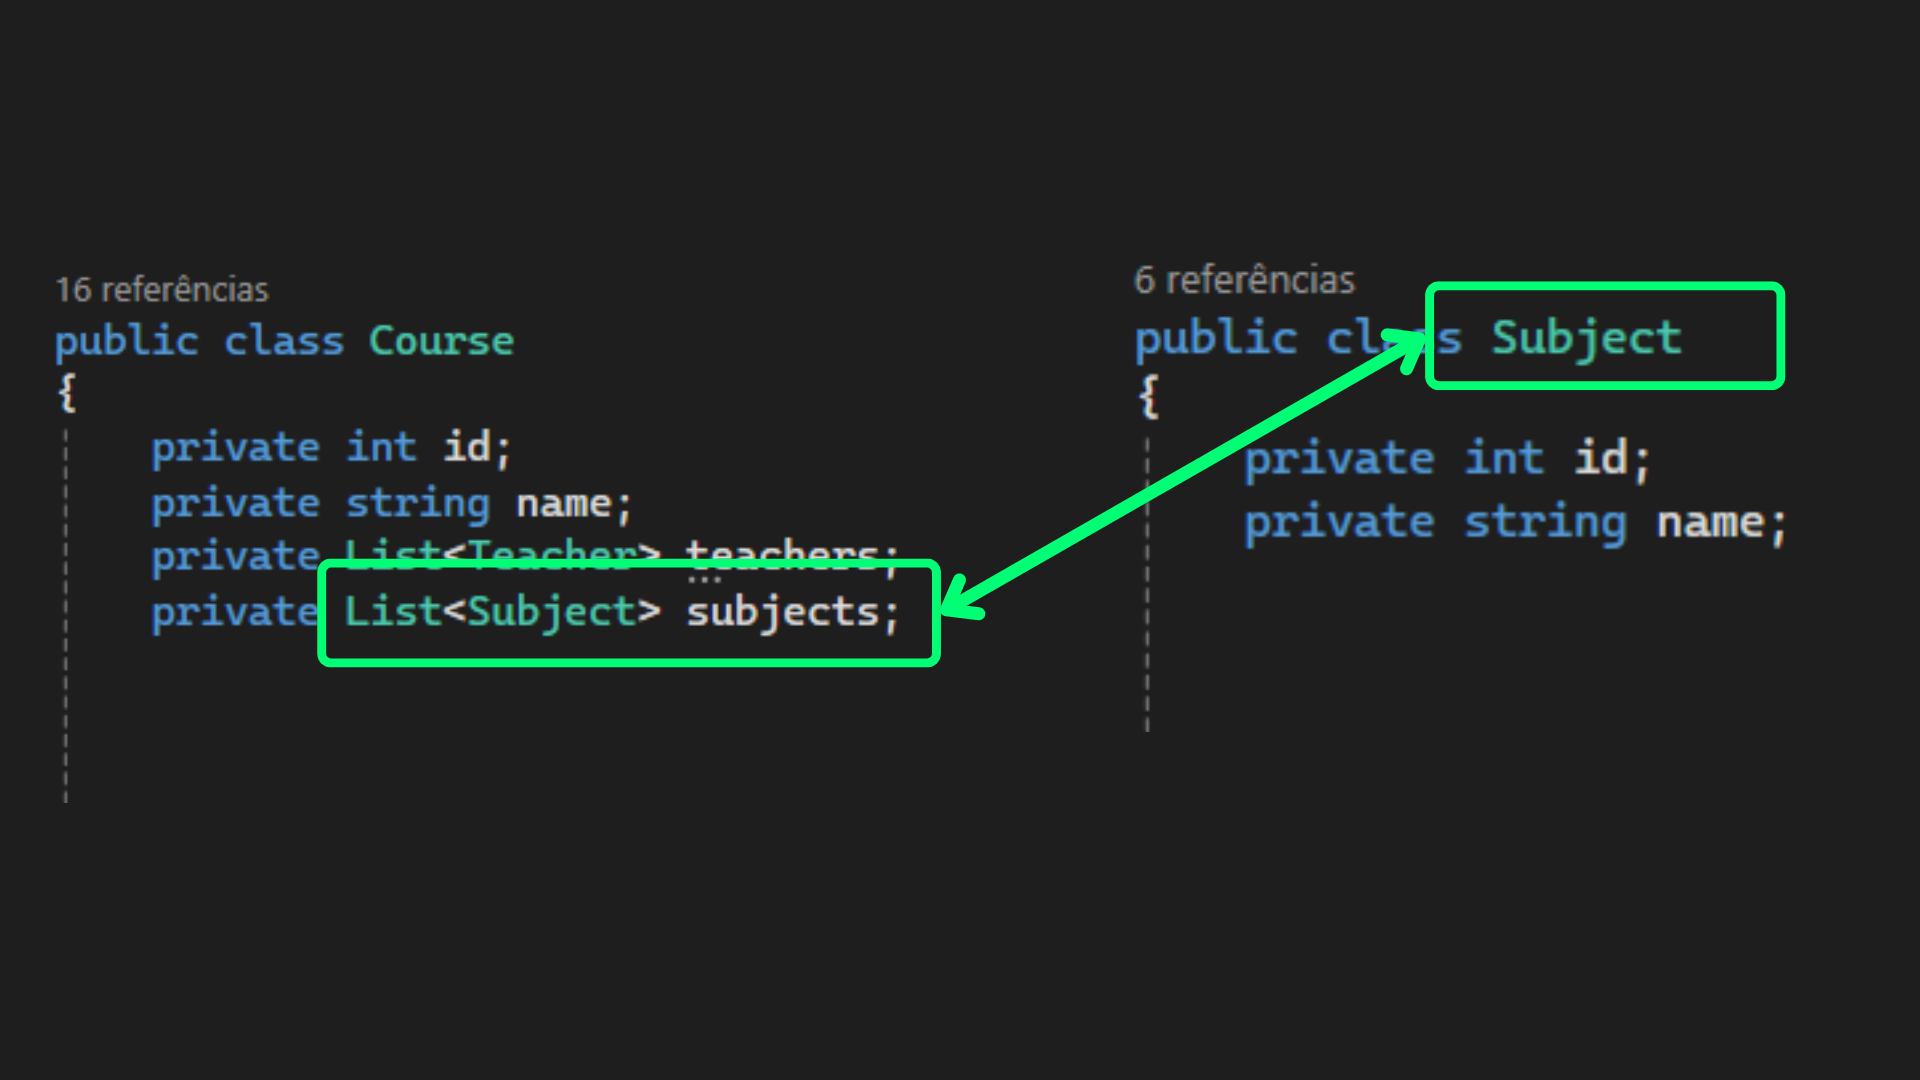
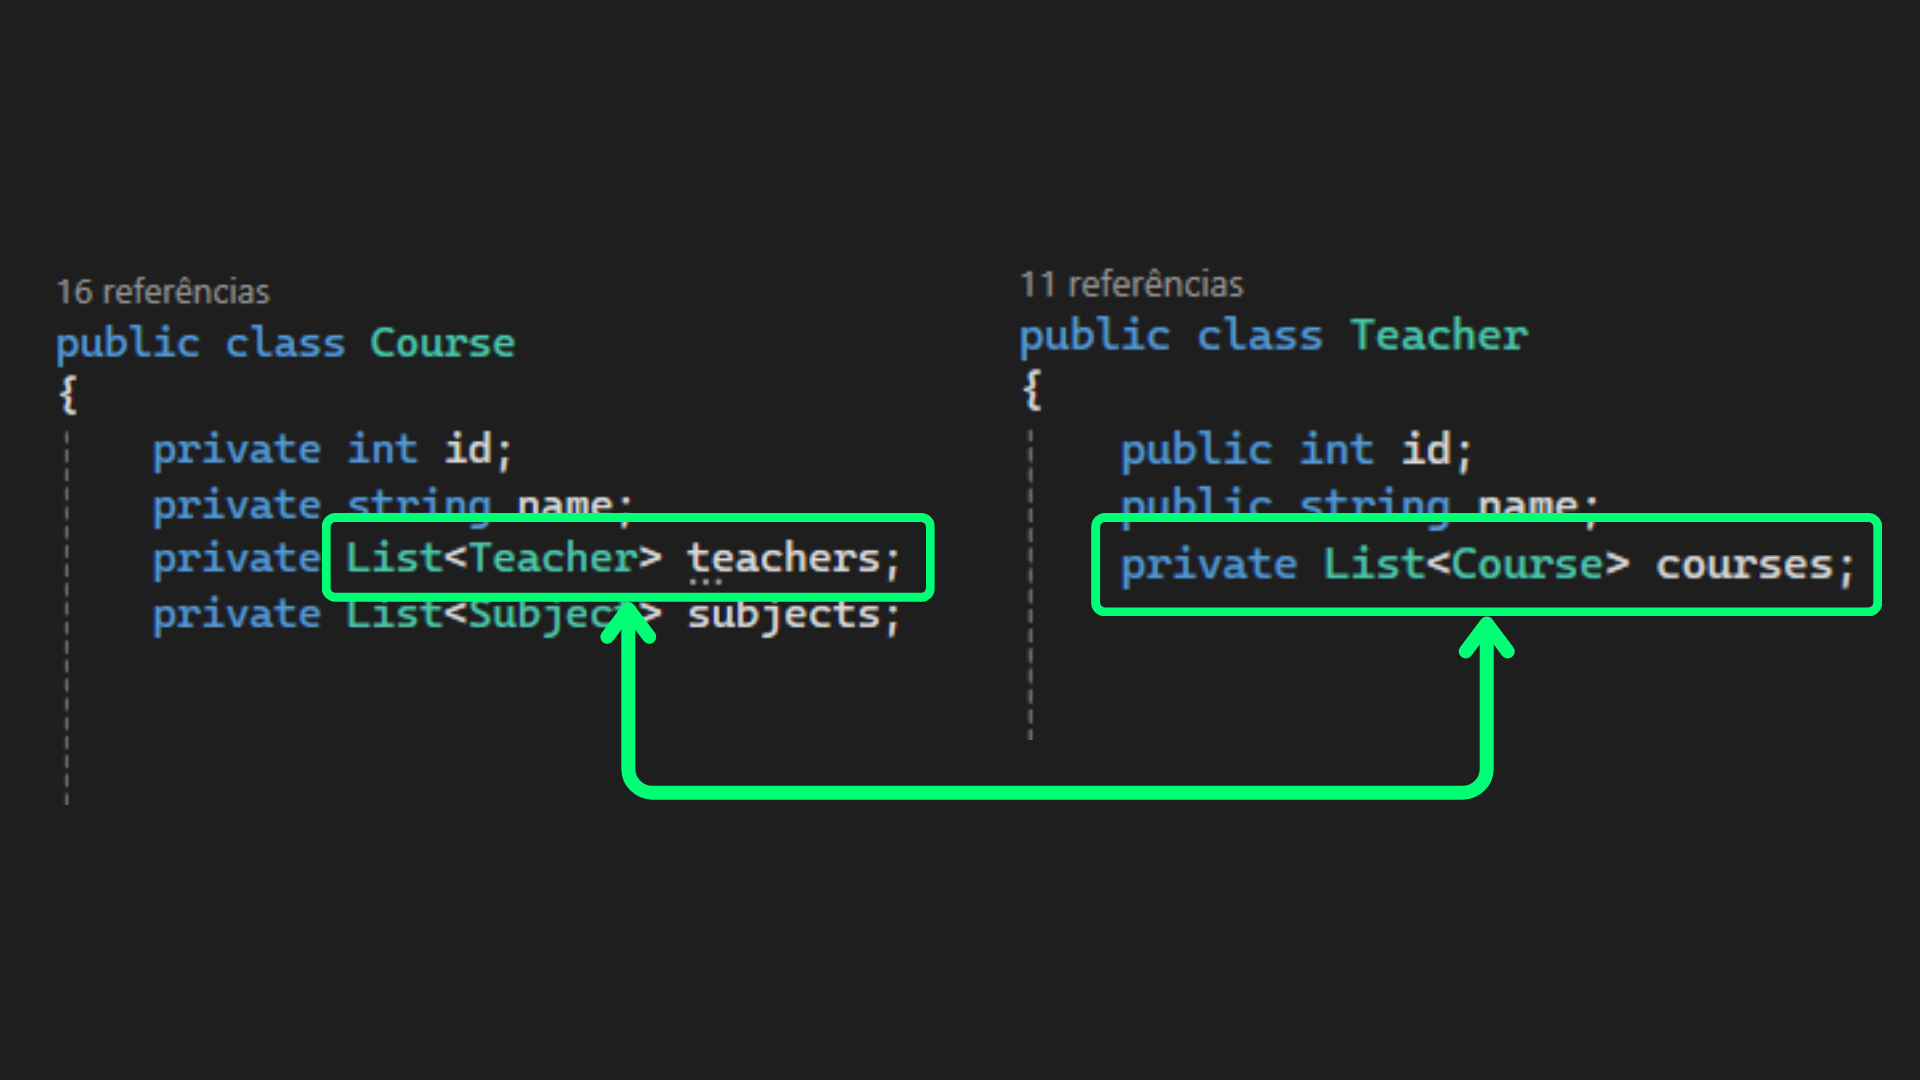
save_commit

Changed region(s): [[0.0625, 0.2444, 1.0, 0.7639], [0.0312, 0.2444, 0.2812, 0.3972], [0.0625, 0.3972, 0.2812, 0.4278]]

diff --git a/Models/College.cs b/Models/College.cs
@@ -9,7 +9,7 @@ namespace SearchOOP.Models
     public class College
     {
         //Atributos
-        private string college_name;
+        private string collegeName;
         private List<Course> courses;
         private List<Teacher> teachers;
         private List<Student> students;
@@ -17,8 +17,8 @@ namespace SearchOOP.Models
         //properties (accessor)
         public string College_Name
         {
-            get { return college_name; }
-            set { college_name = value; }
+            get { return collegeName; }
+            set { collegeName = value; }
         }
 
         public List<Course> Courses
@@ -42,7 +42,7 @@ namespace SearchOOP.Models
         //construct method
         public College(string college_name)
         {
-            this.college_name = college_name;
+            this.collegeName = college_name;
             this.students = new List<Student>();
             this.courses = new List<Course>();
             this.teachers = new List<Teacher>();
@@ -59,39 +59,14 @@ namespace SearchOOP.Models
             courses.Remove(course);
         }
 
-        public void DisplayCourses()
-        {
-            Console.WriteLine("");
-            Console.WriteLine("Courses:");
-            if (courses.Any()) {
-                foreach (var course in courses)
-                {
-                    Console.WriteLine($"ID: {course.Id}, Name: {course.Name}");
-
-                }
-                Console.WriteLine("");
-            }
-
-            else
-            {
-                Console.WriteLine("No courses avaliable");
-                Console.WriteLine("");
-
-            }
-            
-        }
-
-        //STUDENT METHODS
         public void AddStudent(Student student)
         {
             students.Add(student);
-
         }
 
         public void RemoveStudent(Student student)
         {
             students.Remove(student);
-
         }
 
         public void DisplayStudents()
@@ -103,7 +78,6 @@ namespace SearchOOP.Models
                 foreach (var student in students)
                 {
                     Console.WriteLine($"ID: {student.Id}, Name: {student.Name}, Email: {student.Email}");
-
                 }
                 Console.WriteLine("");
             }
@@ -114,69 +88,16 @@ namespace SearchOOP.Models
             }
         }
 
-
-        //TEACHER METHODS
-        public void AddTeacher(Teacher teacher)
-        {
-            teachers.Add(teacher);
-
-        }
-
-        public void RemoveTeacher(Teacher teacher)
-        {
-            teachers.Remove(teacher);
-
-        }
-
         public void AddTeacherToCourse(Teacher teacher, Course course)
         {
             teacher.AddCourse(course);
-
+            course.AddTeacher(teacher);
         }
 
         public void RemoveTeacherFromCourse(Teacher teacher, Course course)
         {
             teacher.RemoveCourse(course);
-            RemoveTeacher(teacher);
-
-        }
-
-        public void DisplayTeachers()
-        {
-            Console.WriteLine("");
-            Console.WriteLine("Teachers:");
-
-            if (teachers.Count > 0)
-            {
-
-                foreach (var teacher in teachers)
-                {
-
-                    // Verificar se o professor está associado a algum curso
-                    if (teacher.Courses.Any())
-                    {
-                        foreach (var course in teacher.Courses)
-                        {
-                            Console.WriteLine($"Name: {teacher.Name} - Course: {course.Name}");
-                        }
-                        Console.WriteLine("");
-                    }
-                    else
-                    {
-                        Console.WriteLine($"Name: {teacher.Name}");
-                    }
-
-                    Console.WriteLine(""); // Adicionar uma linha em branco para separar os professores
-                }
-            }
-            else
-            {
-                Console.WriteLine("No teachers associated.");
-                Console.WriteLine("");
-
-            }
-
-
+            course.RemoveTeacher(teacher);
         }
     }
 }

diff --git a/Models/Course.cs b/Models/Course.cs
@@ -10,7 +10,8 @@ namespace SearchOOP.Models
     {
         private int id;
         private string name;
-
+        private List<Teacher> teachers;
+        private List<Subject> subjects;
 
         public int Id
         {
@@ -22,14 +23,101 @@ namespace SearchOOP.Models
         {
             get { return name; }
             set { name = value; }
+        }
 
+        public List<Subject> Subjects
+        {
+            get { return subjects; }
+            set { subjects = value; }
         }
 
         public Course(int id, string name)
         {
             this.Id = id;
             this.Name = name;
+            this.Subjects = new List<Subject>();
         }
 
+        public void AddMateria(Subject subject)
+        {
+            subjects.Add(subject);
+        }
+
+        public void RemoveMateria(Subject subject)
+        {
+            subjects.Remove(subject);
+        }
+
+        public void AddTeacher(Teacher teacher)
+        {
+            teachers.Add(teacher);
+        }
+
+        public void AddTeacher(List<Teacher> newTeachers)
+        {
+            foreach (var teacher in newTeachers)
+            {
+                teachers.Add(teacher);
+            }
+        }
+
+        public void RemoveTeacher(Teacher teacher)
+        {
+            teachers.Remove(teacher);
+        }
+
+        public void DisplayMaterias()
+        {
+            Console.WriteLine("");
+            Console.WriteLine("Materias:");
+
+            if (subjects.Count > 0)
+            {
+                foreach (var materia in subjects)
+                {
+                    Console.WriteLine($"ID: {materia.Id}, Name: {materia.Name}");
+                }
+                Console.WriteLine("");
+            }
+            else
+            {
+                Console.WriteLine("No materias associated.");
+                Console.WriteLine("");
+            }
+        }
+
+        public void DisplayTeachers()
+        {
+            Console.WriteLine("");
+            Console.WriteLine("Teachers:");
+
+            if (teachers.Count > 0)
+            {
+
+                foreach (var teacher in teachers)
+                {
+
+                    // Verificar se o professor está associado a algum curso
+                    if (teacher.Courses.Any())
+                    {
+                        foreach (var course in teacher.Courses)
+                        {
+                            Console.WriteLine($"Name: {teacher.Name} - Course: {course.Name}");
+                        }
+                        Console.WriteLine("");
+                    }
+                    else
+                    {
+                        Console.WriteLine($"Name: {teacher.Name}");
+                    }
+                    Console.WriteLine(""); // Adicionar uma linha em branco para separar os professores
+                }
+            }
+            else
+            {
+                Console.WriteLine("No teachers associated.");
+                Console.WriteLine("");
+            }
+        }
     }
 }

diff --git a/Models/Teacher.cs b/Models/Teacher.cs
@@ -8,12 +8,10 @@ namespace SearchOOP.Models
 {
     public class Teacher
     {
-        //Atributos
-        public int id;
-        public string name;
+        private int id;
+        private string name;
         private List<Course> courses;
 
-        //accessor method
         public int Id
         {
             get { return id; }
@@ -49,6 +47,27 @@ namespace SearchOOP.Models
         {
             courses.Remove(course);
         }
+
+        public void DisplayCourses()
+        {
+            Console.WriteLine("");
+            Console.WriteLine("Courses:");
+            if (courses.Any())
+            {
+                foreach (var course in courses)
+                {
+                    Console.WriteLine($"ID: {course.Id}, Name: {course.Name}");
+
+                }
+                Console.WriteLine("");
+            }
+
+            else
+            {
+                Console.WriteLine("No courses avaliable");
+                Console.WriteLine("");
+
+            }
+        }
     }
 }
-

diff --git a/Controllers/CollegeController.cs b/Controllers/CollegeController.cs
@@ -10,6 +10,8 @@ namespace SearchOOP.Controllers
     public class CollegeController
     {
         private College college;
+        private Course courses;
+        private Teacher teachers;
 
         public CollegeController(College college)
         {
@@ -138,11 +140,11 @@ namespace SearchOOP.Controllers
                         break;
 
                     case "5":
-                        college.DisplayTeachers();
+                        courses.DisplayTeachers();
                         break;
 
                     case "6":
-                        college.DisplayCourses();
+                        teachers.DisplayCourses();
                         break;
 
                     case "7":

diff --git a/obj/Debug/net8.0/SearchOOP.AssemblyInfo.cs b/obj/Debug/net8.0/SearchOOP.AssemblyInfo.cs
@@ -14,7 +14,7 @@ using System.Reflection;
 [assembly: System.Reflection.AssemblyCompanyAttribute("SearchOOP")]
 [assembly: System.Reflection.AssemblyConfigurationAttribute("Debug")]
 [assembly: System.Reflection.AssemblyFileVersionAttribute("1.0.0.0")]
-[assembly: System.Reflection.AssemblyInformationalVersionAttribute("1.0.0+6ba2f1adf56f0659136f55c315bd6d50e247310c")]
+[assembly: System.Reflection.AssemblyInformationalVersionAttribute("1.0.0+eb9b0c5e373279f09a26a5db55850495d91b73af")]
 [assembly: System.Reflection.AssemblyProductAttribute("SearchOOP")]
 [assembly: System.Reflection.AssemblyTitleAttribute("SearchOOP")]
 [assembly: System.Reflection.AssemblyVersionAttribute("1.0.0.0")]

diff --git a/Models/Subjects.cs b/Models/Subjects.cs
@@ -6,7 +6,30 @@ using System.Threading.Tasks;
 
 namespace SearchOOP.Models
 {
-    internal class Subjects
+    public class Subject
     {
+        private int id;
+        private string name;
+
+
+
+
+        public int Id
+        {
+            get { return id; }
+            set { id = value; }
+        }
+
+        public string Name
+        {
+            get { return name; }
+            set { name = value; }
+        }
+
+        public Subject(int id, string name)
+        {
+            this.Id = id;
+            this.Name = name;
+        }
     }
 }

diff --git a/Program.cs b/Program.cs
@@ -1,5 +1,5 @@
-using SearchOOP.Models;
-using SearchOOP.Controllers;
+using SearchOOP.Controllers;
+using SearchOOP.Models;
 using System;
 using System.Collections.Generic;
 using System.IO.Compression;

diff --git a/Models/Student.cs b/Models/Student.cs
@@ -46,9 +46,5 @@ namespace SearchOOP.Models
             this.Email = email;
 
         }
-
-
-
-
     }
 }
